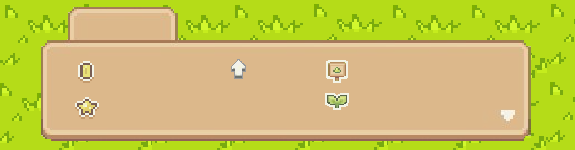
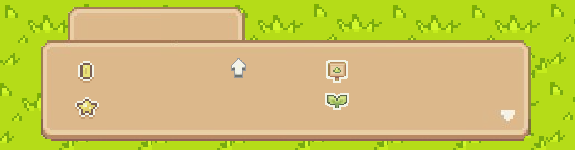
+ GUI Modifications

Changed region(s): [[0.2957, 0.0267, 0.4435, 0.2667], [0.3843, 0.4, 0.4435, 0.5333]]

diff --git a/src/GameGUI.java b/src/GameGUI.java
@@ -222,6 +222,7 @@ public class GameGUI {
                                 farmer.setFarmerType(type);
                                 farmer.setFarmerObjectCoin(farmer.getFarmerObjectCoin()-type.getFarmerRegFee());
                                 messagePrompt.feedback.setText("You have registered as " + type.getFarmerTypeName());
+                                statsUI.farmerType.setText(" "+ type.getFarmerTypeName());
                                 break;
                             }
                         }
@@ -621,7 +622,7 @@ public class GameGUI {
         statsUI.setBounds(50,650,575,150);
         statsUI.setBackground(Color.gray);
 
-        statsUI.farmerType.setText(" "+ farmer.getFarmerType());
+        //statsUI.farmerType.setText("Farmer");
         statsUI.balance.setText("Balance: " + df.format(farmer.getFarmerObjectCoin()));
         statsUI.experience.setText("Experience: "+farmer.getFarmerExp());
         statsUI.planted.setText("Planted: " + farmerStats.getTimesPlanted() + " seed/s" );

diff --git a/src/Views/statsView.java b/src/Views/statsView.java
@@ -5,7 +5,7 @@ import java.awt.*;
 
 public class statsView extends JPanel {
     static JLabel farmerNamePromptLbl;
-    public JLabel farmerType = new JLabel("");
+    public JLabel farmerType = new JLabel("Farmer");
     public JLabel balance = new JLabel("Balance:");
     public JLabel experience = new JLabel("Experience:");
 
@@ -37,12 +37,12 @@ public class statsView extends JPanel {
         planted.setFont(new Font("Helvetica", Font.BOLD,15));
 
         harvested.setForeground(Color.WHITE);
-        harvested.setBounds(360,85,300,30);
+        harvested.setBounds(365,85,300,30);
         harvested.setFont(new Font("Helvetica", Font.BOLD,15));
 
         farmerType.setForeground(Color.WHITE);
-        farmerType.setBounds(30,30,300,30);
-        farmerType.setFont(new Font("Helvetica", Font.BOLD,12));
+        farmerType.setBounds(80,10,300,30);
+        farmerType.setFont(new Font("Helvetica", Font.BOLD,15));
 
         this.add(balance);
         this.add(experience);

diff --git a/src/Game.java b/src/Game.java
@@ -17,7 +17,6 @@ public class Game {
 
     public static void main(String[] args) {
 
-        new Game();
-        //new TitleScreen();
+        new TitleScreen();
     }
 }
